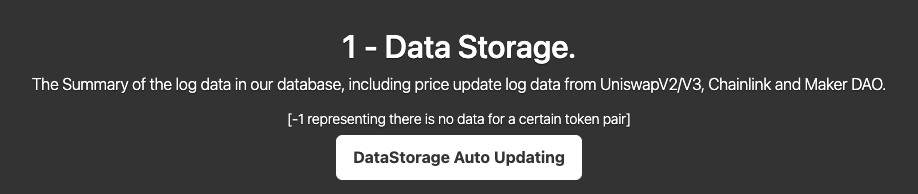
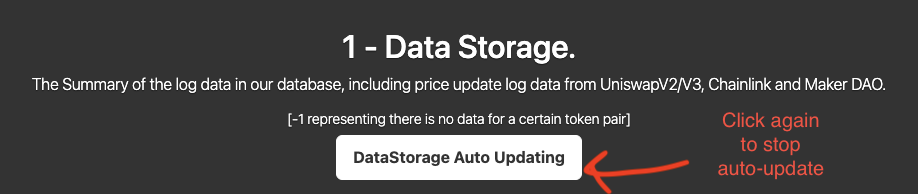
update

Changed region(s): [[0.61, 0.7732, 0.915, 1.0], [0.7625, 0.5567, 0.915, 0.6804], [0.793, 0.7113, 0.8845, 0.8041]]

diff --git a/Readme.md b/Readme.md
@@ -90,7 +90,7 @@ There are two way to udpate price data, the first one is automatically update al
 ![Alt text](images/DataUpdateDetails.png?raw=true "Data Update")
 example of clicked auto update:
 ![Alt text](images/AutoUpdateData.png?raw=true "Data Auto Update")
-example of cliced manual update:
+example of clicked manual update:
 ![Alt text](images/ManualUpdateData.png?raw=true "Data Manual Update")
 
 ### 2.2. Block Price Data Update
